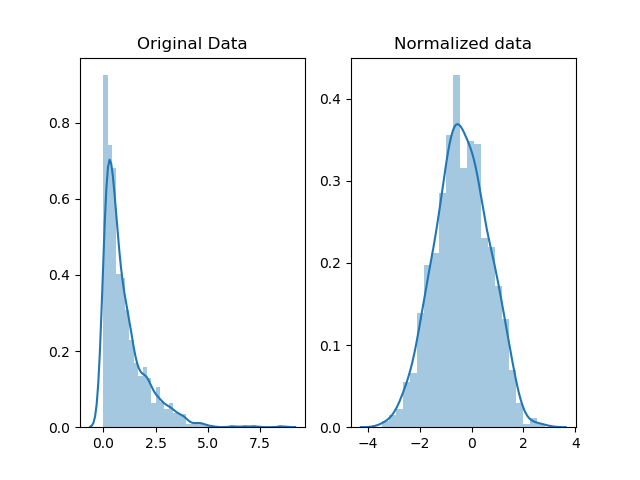
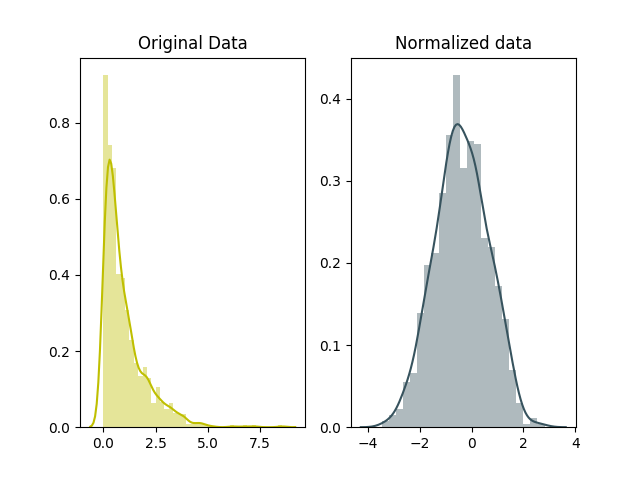
chore: Update pictures in scaling vs normalization

diff --git a/_posts/2018-03-23-scaling-vs-normalization.md b/_posts/2018-03-23-scaling-vs-normalization.md
@@ -35,7 +35,7 @@ scaled_data = minmax_scale(original_data)
 
 # plot both together to compare
 fig, ax=plt.subplots(1,2)
-sns.distplot(original_data, ax=ax[0])
+sns.distplot(original_data, ax=ax[0], color='y')
 ax[0].set_title("Original Data")
 sns.distplot(scaled_data, ax=ax[1])
 ax[1].set_title("Scaled data")
@@ -64,7 +64,7 @@ normalized_data = stats.boxcox(original_data)
 
 # plot both together to compare
 fig, ax=plt.subplots(1,2)
-sns.distplot(original_data, ax=ax[0])
+sns.distplot(original_data, ax=ax[0], color='y')
 ax[0].set_title("Original Data")
 sns.distplot(normalized_data[0], ax=ax[1])
 ax[1].set_title("Normalized data")
@@ -93,4 +93,5 @@ In stochastic gradient descent, feature scaling can sometimes improve the conver
 
 **Further Readings:**  
 1. [Feature scaling - Wikipedia](https://en.wikipedia.org/wiki/Feature_scaling)
-2. [What algorithms need feature scaling, beside from SVM?](https://stats.stackexchange.com/q/244507/194589)
+2. [What algorithms need feature scaling, beside from SVM?](https://stats.stackexchange.com/q/244507/194589)  
+3. [Scaling and Normalize Data](https://www.kaggle.com/jfeng1023/data-cleaning-challenge-scale-and-normalize-data)
